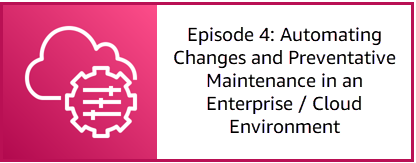
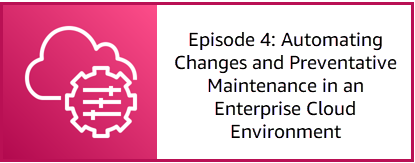
Fixing links to next section

diff --git a/episode-03-step-04-tear-down.md b/episode-03-step-04-tear-down.md
@@ -79,7 +79,7 @@ To go back to the previous section, click here: [View and take action on operati
 
 ## Next Section
 
-Click the link below to go to the next episode, **Episode 4: Automating Changes and Preventative Maintenance in an Enterprise / Cloud Environment**.
+Click the link below to go to the next episode, **Episode 4: Automating Changes and Preventative Maintenance in an Enterprise Cloud Environment**.
 
 [![](media/episode-04-link.png)](/episode-04-step-00-overview.md)
 
